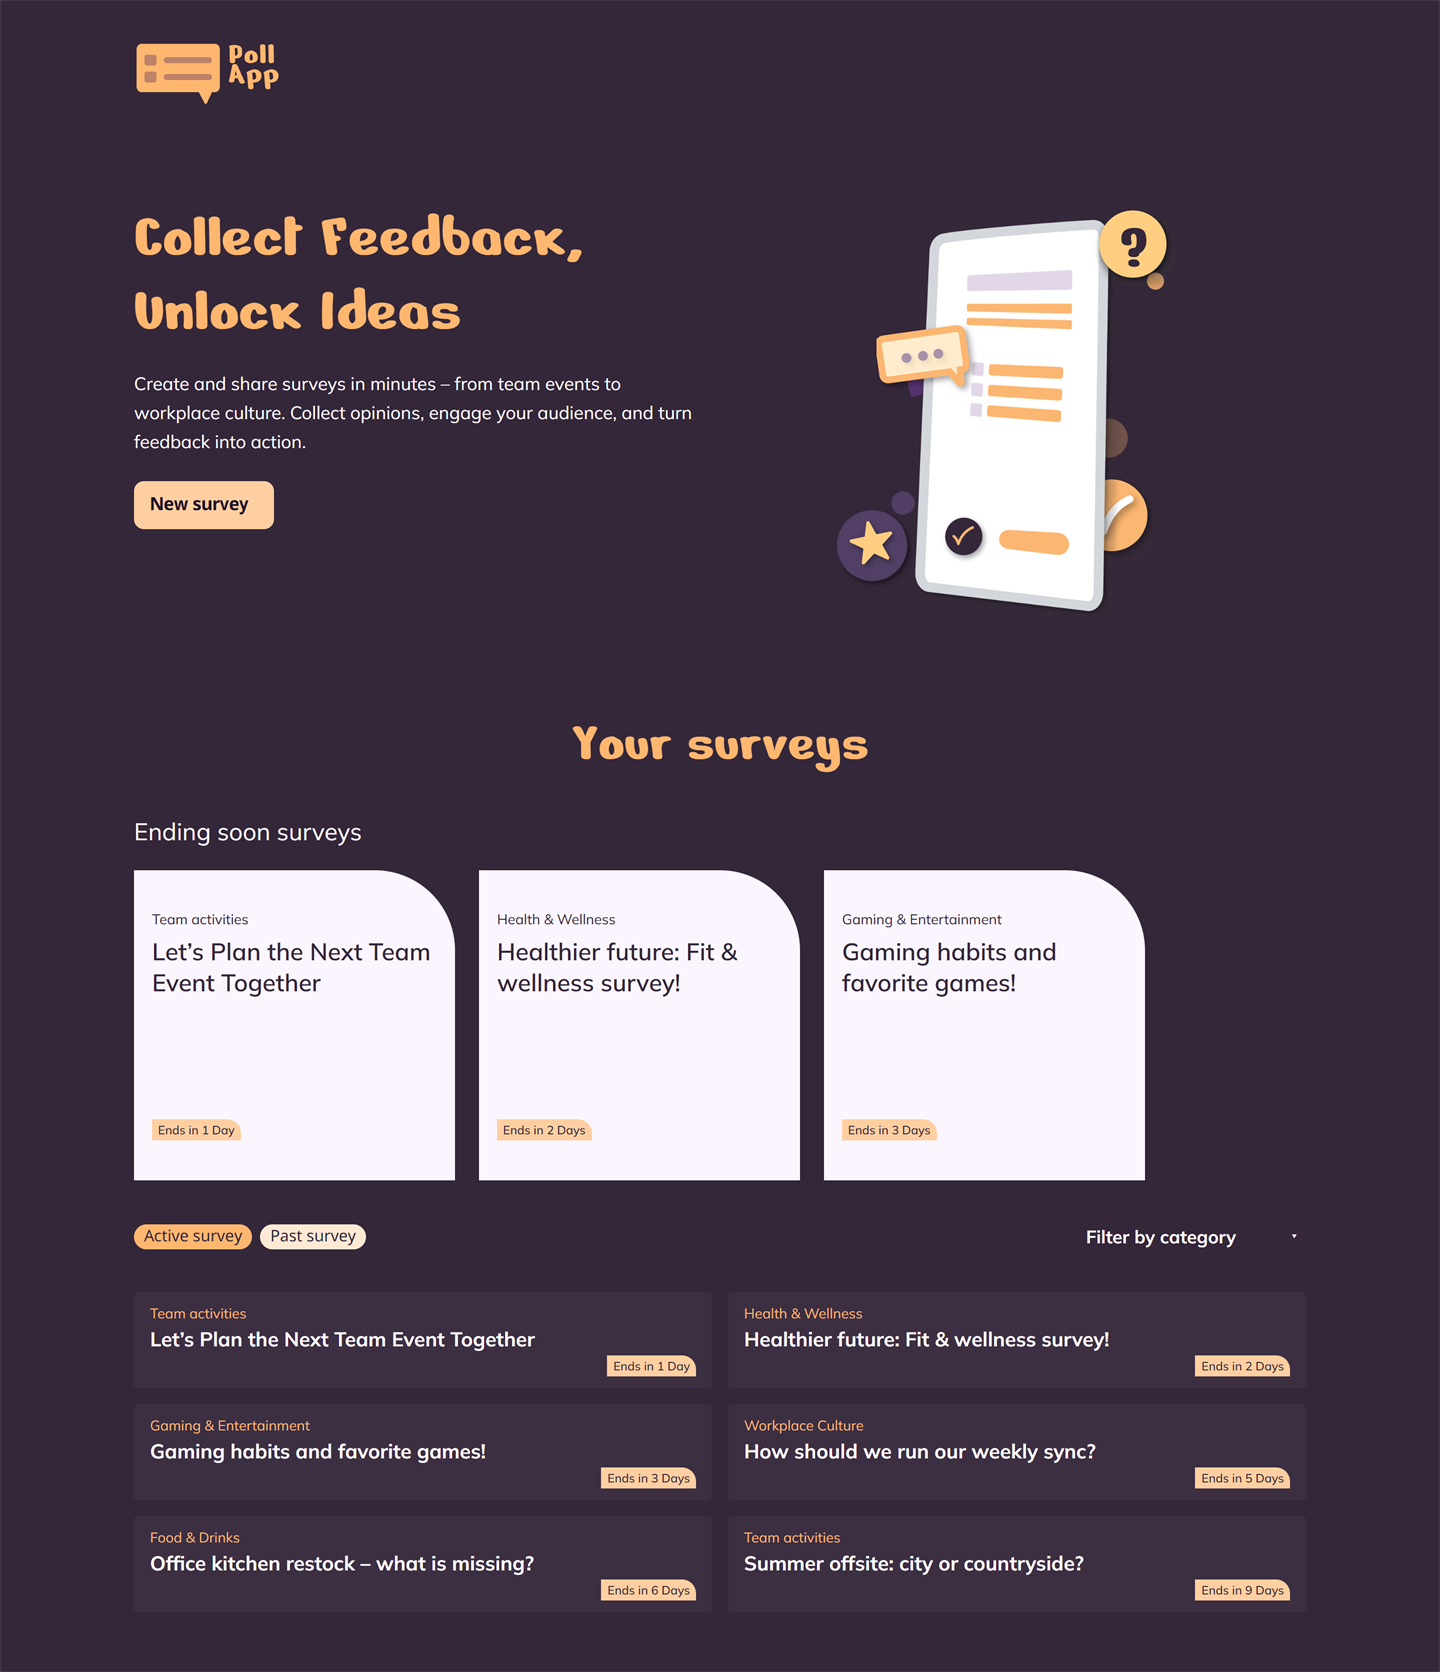
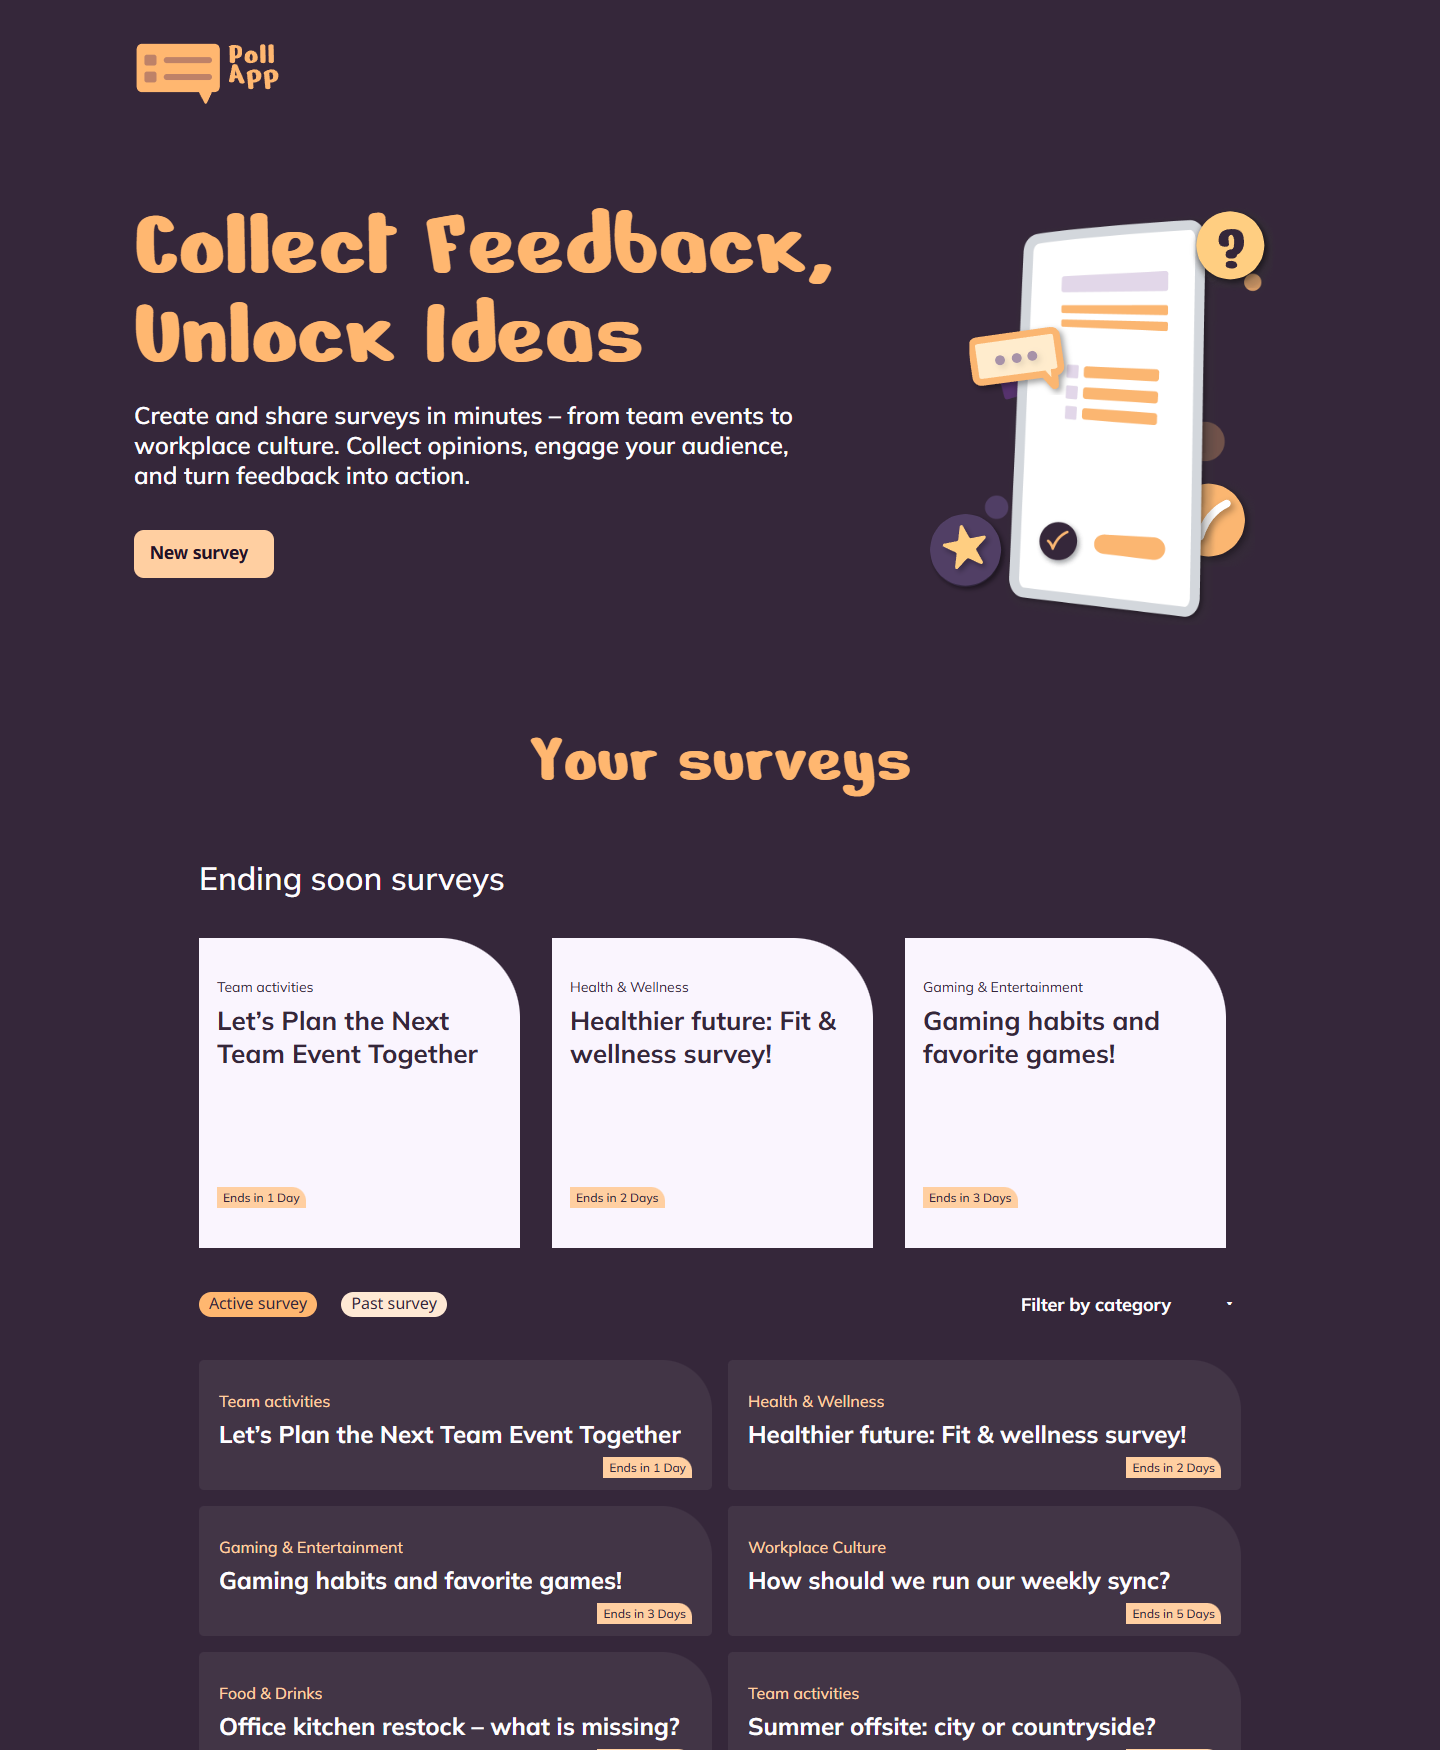
Update the README with fresh screenshots and the current feature set
- Retook every screenshot (overview, detail view, create dialog, mobile)
  and added the create dialog as seen on a phone
- The live demo now points at the Developer Akademie domain, GitHub Pages
  stays linked as a mirror
- The responsive entry describes both layouts, the card row was added
- Function counts in the conventions table brought up to date

diff --git a/README.md b/README.md
@@ -10,7 +10,8 @@ Umfragen in Minuten erstellen, teilen und live auswerten – vom Team-Event bis 
 
 <br>
 
-[![Live Demo](https://img.shields.io/badge/Live_Demo-ansehen-FFB770?style=for-the-badge&logoColor=35273A&labelColor=35273A)](https://alexlindt-arch.github.io/Poll-App/)
+[![Live Demo](https://img.shields.io/badge/Live_Demo-ansehen-FFB770?style=for-the-badge&logoColor=35273A&labelColor=35273A)](https://alexander-lindt.developerakademie.net/)
+[![GitHub Pages](https://img.shields.io/badge/GitHub_Pages-Spiegel-35273A?style=for-the-badge&logoColor=FFB770&labelColor=35273A)](https://alexlindt-arch.github.io/Poll-App/)
 
 ![HTML5](https://img.shields.io/badge/HTML5-35273A?style=flat-square&logo=html5&logoColor=FFB770)
 ![CSS3](https://img.shields.io/badge/CSS3-35273A?style=flat-square&logo=css3&logoColor=FFB770)
@@ -47,7 +48,8 @@ laufende/abgeschlossene Umfragen und Kategoriefilter.
 ### Umfrage beantworten – mit Live-Auswertung
 
 Alle Fragen einer Umfrage, je nach Einstellung mit Einfach- oder Mehrfachauswahl.
-Rechts aktualisieren sich die Ergebnisse in Echtzeit.
+Rechts aktualisieren sich die Ergebnisse in Echtzeit. Oben rechts führen der
+„New survey"-Button und das Schließen-Kreuz zurück in den Ablauf.
 
 <img src="docs/screenshots/02-survey-detail.png" alt="Umfrage-Detailansicht mit Live-Ergebnissen" width="100%">
 
@@ -55,8 +57,10 @@ Rechts aktualisieren sich die Ergebnisse in Echtzeit.
 
 ### Umfrage erstellen
 
-Pflichtfelder werden beim Absenden validiert und melden sich mit Klartext. Fragen und Antwortoptionen
+Pflichtfelder sind mit `*` markiert und werden validiert. Fragen und Antwortoptionen
 lassen sich dynamisch hinzufügen und entfernen – bis zu sechs Antworten pro Frage.
+Zwei Fragen stehen nebeneinander, sobald beide genug Platz haben, sonst füllt eine
+Frage die ganze Breite.
 
 <img src="docs/screenshots/03-create-survey.png" alt="Formular zum Anlegen einer neuen Umfrage" width="100%">
 
@@ -64,8 +68,12 @@ lassen sich dynamisch hinzufügen und entfernen – bis zu sechs Antworten pro F
 
 ### Mobil
 
+Eigenes Layout ab 320 px: Startseite mit horizontal schiebbaren Karten und der
+Erstellen-Dialog als dunkler Block auf heller Seite.
+
 <div align="center">
-  <img src="docs/screenshots/04-mobile.png" alt="Mobile Ansicht der Startseite" width="320">
+  <img src="docs/screenshots/04-mobile.png" alt="Mobile Ansicht der Startseite" width="300">
+  <img src="docs/screenshots/05-mobile-create.png" alt="Mobile Ansicht des Erstellen-Dialogs" width="300">
 </div>
 
 <br>
@@ -80,7 +88,8 @@ lassen sich dynamisch hinzufügen und entfernen – bis zu sechs Antworten pro F
 | ✍ | **Umfrage-Editor** | Overlay-Dialog mit Pflicht- und optionalen Feldern, Validierung und dynamischen Fragen |
 | ☑ | **Einfach- & Mehrfachauswahl** | Pro Frage einstellbar |
 | 📊 | **Live-Auswertung** | Prozentbalken neben den Fragen, die sich laufend aktualisieren |
-| 📱 | **Responsive** | Breakpoints bei 1024 px, 768 px und 400 px; der Erstellen-Dialog folgt ab 320 px dem Mobil-Design |
+| 📱 | **Responsive** | Zwei ausgearbeitete Layouts: Mobil ab 320 px, Laptop ab 769 px; Überschrift und Spalten wachsen stufenlos mit dem Platz |
+| 🎠 | **Schiebbare Highlights** | Die Karten bleiben immer in einer Reihe und lassen sich seitlich schieben, wenn sie nicht nebeneinander passen |
 | ⌨ | **Tastatur & A11y** | Escape schließt Overlays, ARIA-Rollen für Dialoge, Tabs und Live-Region |
 
 <br>
@@ -118,7 +127,7 @@ Poll-App/
 │   ├── detail.js           # Detail-Overlay
 │   ├── form.js             # Erstellen-Dialog inkl. Validierung
 │   └── main.js             # Einstiegspunkt, Reiter, Filter, Live-Timer
-├── assets/img/             # Logos, Icons, Hero-Illustration
+├── assets/img/             # Logos, Icons (Papierkorb, Plus), Hero-Illustration
 └── docs/screenshots/       # Screenshots für dieses README
 ```
 
@@ -149,8 +158,8 @@ Das Projekt folgt den Coding-Konventionen der Developer Akademie:
 
 | Regel | Stand |
 |---|---|
-| Funktionen maximal 14 Zeilen | 106 Funktionen, **0 Verstöße** |
-| JSDoc über jeder Funktion | **106 von 106** dokumentiert |
+| Funktionen maximal 14 Zeilen | 108 Funktionen, **0 Verstöße** |
+| JSDoc über jeder Funktion | **108 von 108** dokumentiert |
 | Keine Inline-Styles im HTML | **0** `style`-Attribute |
 | Trennung von HTML, CSS und JS | 1 HTML-Datei, 6 CSS-Dateien, 8 JS-Module |
 | Sprechende Namen, kein `var` | durchgehend `const`/`let`, camelCase |
